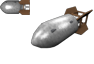
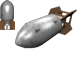
+ Kontextmenü Seilpack + Drehung Bombe
git-svn-id: http://opensvn.csie.org/Luftherrschaft@170 417ea86b-d6b9-46eb-afa4-e379d024af20

diff --git a/Luftherrschaft.c4d/Vehicles.c4d/BombingShip.c4d/Bomb.c4d/Script.c b/Luftherrschaft.c4d/Vehicles.c4d/BombingShip.c4d/Bomb.c4d/Script.c
@@ -2,7 +2,23 @@
 
 #strict
 
-protectet func Hit() {
+protected func Departure(object pContainer) {
+  SetAction("Fall");
+  if(GetXDir() > 0)
+    SetR(90);
+  else
+    SetR(270);
+}
+
+protected func ChangeRotation() {
+  var iR;
+  iR=90+GetYDir()*9/10;
+  if(GetYDir() > 100) iR=180;
+  if(GetXDir() < 0) iR*=-1;
+  SetR(iR);
+}
+
+protected func Hit() {
   Explode(60);
   return(1);
 }

diff --git a/Luftherrschaft.c4d/Vehicles.c4d/BombingShip.c4d/Script.c b/Luftherrschaft.c4d/Vehicles.c4d/BombingShip.c4d/Script.c
@@ -314,6 +314,7 @@ protected func RejectCollect(id idObject, object pObj)
   }
   if(idObject == LBMB)
   	return;
+  SetAction("OpenDoor");
   return 1;
 }
 
